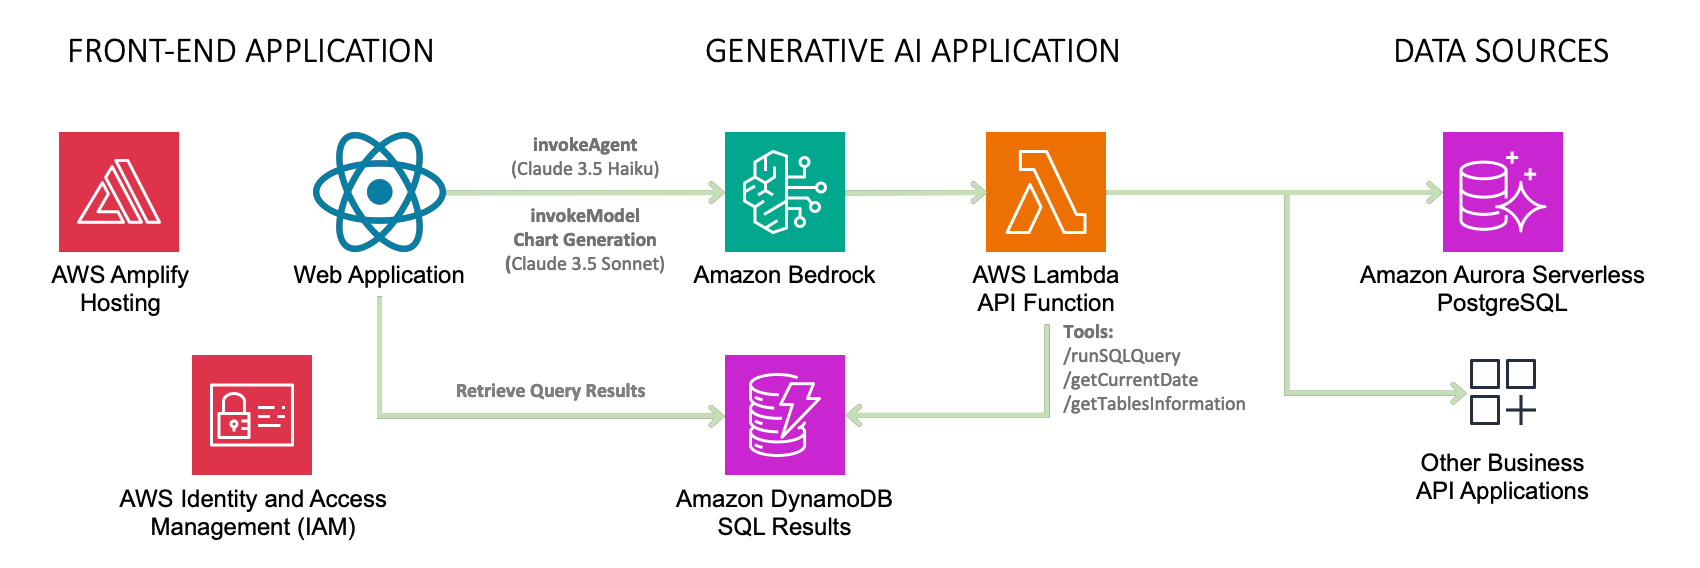
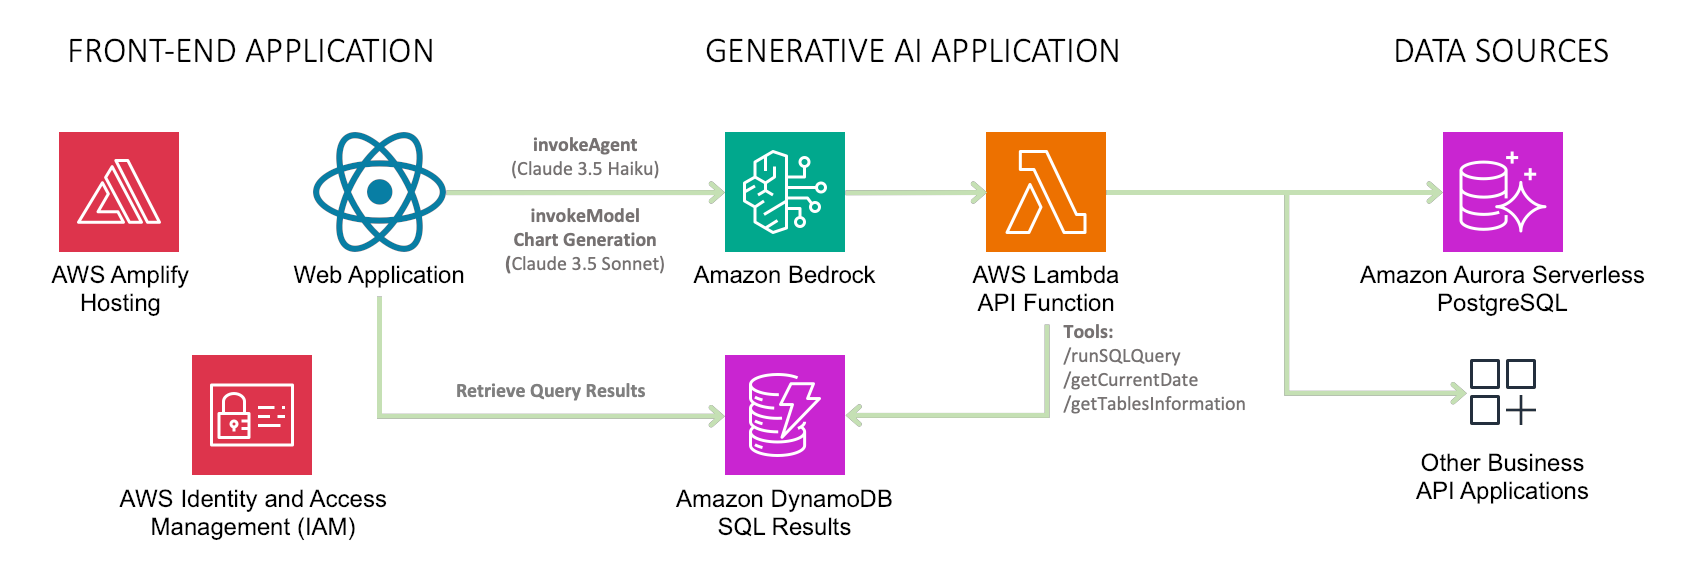
Architecture Diagram and Readme description update (#147)
* Readme descriptions and DAS data validations.

* Readme descriptions and DAS data validations.

* Readme descriptions and DAS data validations.

* DAS - Answer details and readme updates

* DAS - Answer details and readme updates

* DAS - Answer details and readme updates

* Chart generation prompt improvement

* Line correction to update python version in lambda function

* AWS SDK update, chart fix and front-end optimization

* Chart fix and front-end optimization

* Readme updates

* Fix chart render calculation

* Markdown format update

* Markdown format update

* Add agent creation with SAM, update Lambda tooling, and improve README documentation

* Add agent creation with SAM, update Lambda tooling, and improve README documentation

* Add agent creation with SAM, update Lambda tooling, and improve README documentation

* Add agent creation with SAM, update Lambda tooling, and improve README documentation

* Add agent creation with SAM, update Lambda tooling, and improve README documentation

* Add agent creation with SAM, update Lambda tooling, and improve README documentation

* Add agent creation with SAM, update Lambda tooling, and improve README documentation

* Add agent creation with SAM, update Lambda tooling, and improve README documentation

* README and markdown style updates

* README and markdown style updates

* Agent instructions and UI updates

* Agent instructions and UI updates

* Architecture Diagram  White Bakcground

* Update UX description
[…]

diff --git a/examples/agents_ux/README.md b/examples/agents_ux/README.md
@@ -2,8 +2,8 @@
 
 This repository is designed to get you started with Amazon Bedrock Agents with UX by providing a set of examples that demonstrate how to orchestrate agentic workflows. 
 
-## Examples
-
-- [Streamlit Demo UI](/examples/agents_ux/streamlit_demo/): Interactive UI for testing and demonstrating multiple Bedrock agents.
-- [Data Analyst Assistant for Video Game Sales](/examples/agents_ux/video_games_sales_assistant_with_amazon_bedrock_agents/): Create a Generative AI assistant accessing PostgreSQL data through SQL query generation, providing natural language answers and chart visualizations.
-- [Dynamic AI Assistant Demo using Amazon Bedrock Inline Agents](/examples/agents_ux/inline-agent-hr-assistant/): Interactive HR assistant using Amazon Bedrock Inline Agents that adapts capabilities and tools based on employee or manager roles in real-time.
+| Link                                                                  | Features showcased                                                      |
+|-----------------------------------------------------------------------|-------------------------------------------------------------------------|
+| [Streamlit Demo UI](/examples/agents_ux/streamlit_demo/)                | Interactive UI for testing and demonstrating multiple Bedrock agents.|
+| [Data Analyst Assistant for Video Game Sales](/examples/agents_ux/video_games_sales_assistant_with_amazon_bedrock_agents/)                  | This reference solution deploys a conversational data analyst assistant that transforms natural language questions about video game sales into SQL queries for PostgreSQL databases. Built with Amazon Bedrock Agents and featuring an integrated, ready-to-use Data Analyst Assistant application, it delivers AI-generated insights, tabular data, and automatic visualizations. This solution enables intuitive data exploration without requiring SQL knowledge.|
+| [Dynamic AI Assistant Demo using Amazon Bedrock Inline Agents](/examples/agents_ux/inline-agent-hr-assistant/)                | Interactive HR assistant using Amazon Bedrock Inline Agents that adapts capabilities and tools based on employee or manager roles in real-time.|
